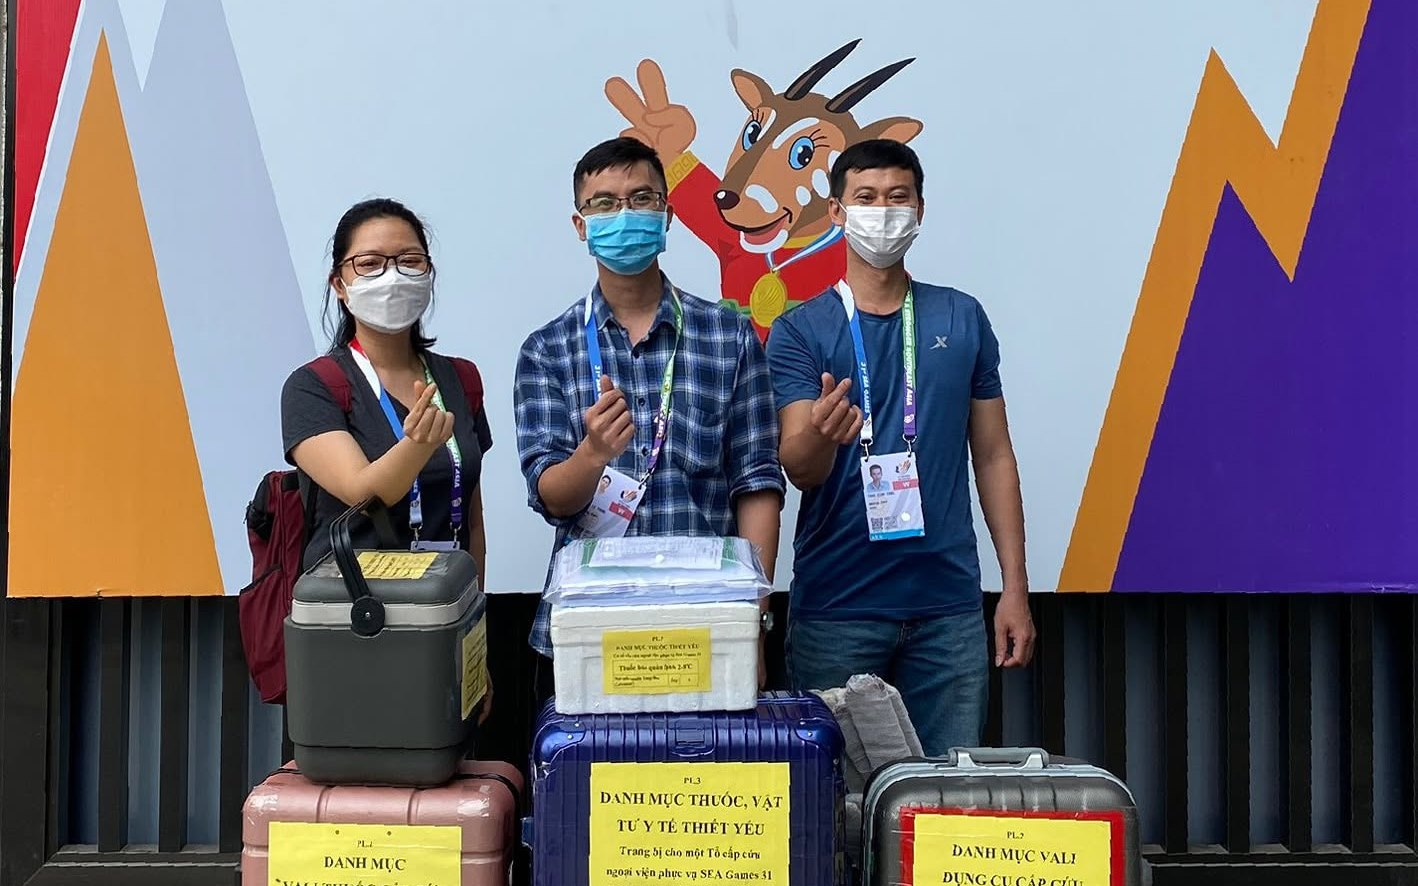
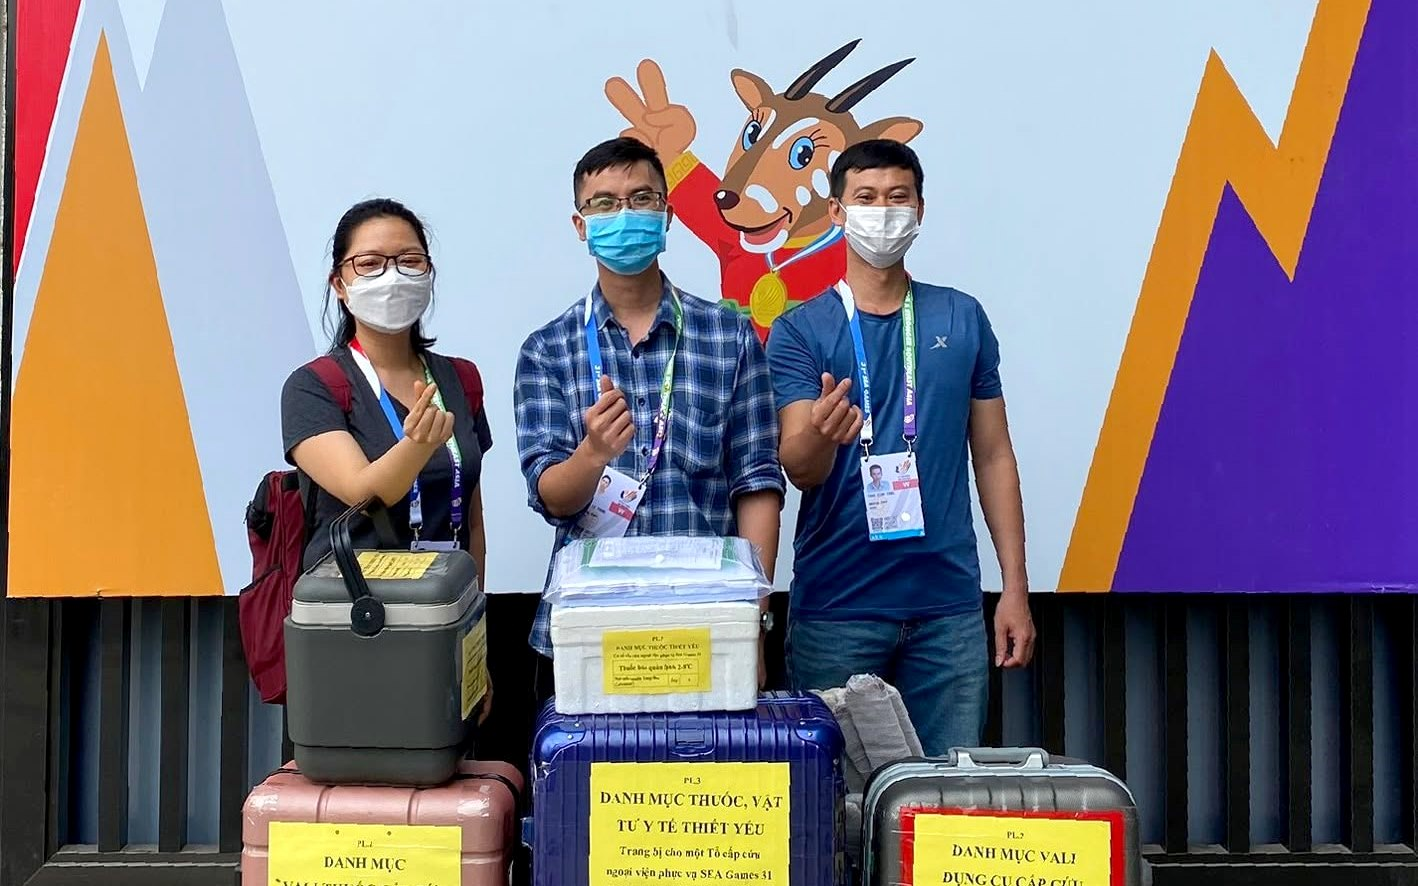
img: chỉnh sáng ảnh SEA Games, cân lại thẻ, đổi ảnh mục điều trị
Ba việc về ảnh, đều không sửa markup vì các file được dùng qua
component:

1. event-seagames31-doi-y-te.jpg hơi tối. Đo được sáng trung bình
   115/255, trung vị 115, bão hòa 42,1%. Chỉnh bão hòa x1,16, tương
   phản x1,06, gamma 0,85 — lên 123 / 129 / 45,1%, điểm sáng nhất từ
   214 lên 224 nên chưa cháy trắng. Có thử một bản mạnh hơn nhưng bỏ
   vì da người bắt đầu bợt và tấm chắn đen mất chi tiết. Ảnh này dùng
   ở 4 chỗ: thẻ blog, ảnh bìa bài, og:image và trang Y tế sự kiện.

2. blog-bac-si-y-te-seagames31-4x3.jpg: thẻ bài "Chuyện lạ trong phòng
   y tế sự kiện" đang cắt mất mặt và hai tay, vì khung .event-img là
   4:3 kèm object-position:top mà ảnh gốc là ảnh dọc 1086x1448 — dải
   trên cùng chỉ có nóc xe và kính lái. Cắt sẵn dải 4:3 từ y=370 ôm
   trọn đỉnh đầu đến hết hai tay khoanh. Tạo file mới chứ không ghi đè,
   vì ảnh dọc gốc còn làm ảnh bìa bài và og:image, mà khung ảnh bìa là
   16:9 căn giữa nên vốn đã lấy đúng phần cần.

3. offer-dien-cham-phong-dieu-tri.jpg: đổi ảnh mục "Thăm khám & điều
   trị" ở trang chủ. Ảnh đúng tỉ lệ 4:3 khớp khung thẻ nên copy nguyên
   bản, không nén lại. Cũng là file mới, vì offer-treatment.jpg đang
   làm ảnh bìa bài "6 Sự thật về Thoát vị đĩa đệm".

diff --git a/service-cards.js b/service-cards.js
@@ -45,8 +45,8 @@
       ten: "Thăm khám & điều trị",
       mo_ta:
         "Châm cứu, vật lý trị liệu cho đau cơ xương khớp và chấn thương thể thao.",
-      anh: "assets/img/offer-treatment.jpg",
-      alt: "Điện châm điều trị tại khoa Y học cổ truyền",
+      anh: "assets/img/offer-dien-cham-phong-dieu-tri.jpg",
+      alt: "Bác sĩ Lê Trung Kiên điều chỉnh máy điện châm cho người bệnh tại phòng điều trị, kết hợp đèn hồng ngoại",
       chu_nut_lien_he: "Tư vấn điều trị",
     },
   ];
